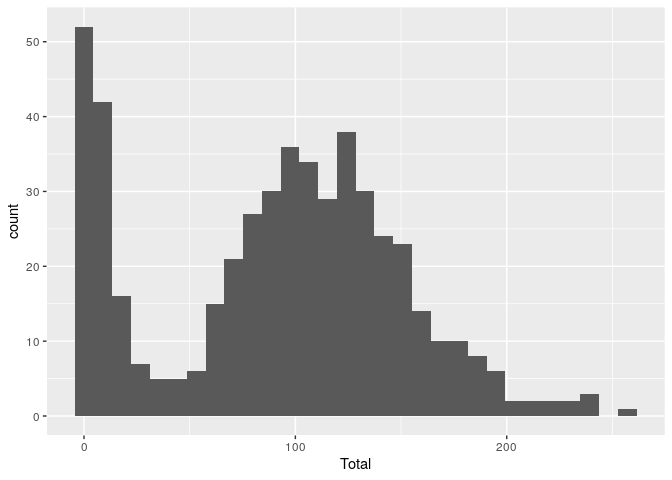
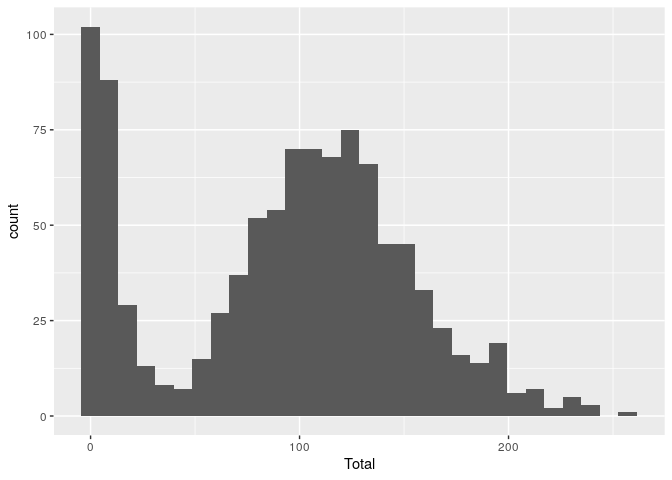
Adding a figure with number of contact tracing events

diff --git a/models/README.md b/models/README.md
@@ -14,7 +14,7 @@ yaml::read_yaml("highschool-params.yaml") |>
     on 'highschool-params.yaml'
 
     List of 19
-     $ Population size             : int 500
+     $ Population size             : int 1000
      $ 1/Rash period               : num 0.25
      $ Contact rate                : num 10
      $ Contact tracing success rate: num 0.9
@@ -31,17 +31,15 @@ yaml::read_yaml("highschool-params.yaml") |>
      $ initial number of exposed   : num 1
      $ Seed                        : int 2231
      $ N days                      : int 60
-     $ Replicates                  : int 500
+     $ Replicates                  : int 1000
      $ Threads                     : int 8
 
 ### Run
 
 The following is the output from the highschool model:
 
-    rm -f highschool-out/* && \
-    ./highschool.o highschool-params.yaml
     Using file: highschool-params.yaml
-    Starting multiple runs (500) using 8 thread(s)
+    Starting multiple runs (1000) using 8 thread(s)
     _________________________________________________________________________
     _________________________________________________________________________
     ||||||||||||||||||||||||||||||||||||||||||||||||||||||||||||||||||||||||| done.
@@ -57,9 +55,9 @@ The following is the output from the highschool model:
     Days (duration)     : 60 (of 60)
     Number of viruses   : 1
     Last run elapsed t  : 0.00s
-    Total elapsed t     : 3.00s (500 runs)
-    Last run speed      : 1.70 million agents x day / second
-    Average run speed   : 9.84 million agents x day / second
+    Total elapsed t     : 6.00s (1000 runs)
+    Last run speed      : 0.99 million agents x day / second
+    Average run speed   : 9.62 million agents x day / second
     Rewiring            : off
 
     Global events:
@@ -79,11 +77,11 @@ The following is the output from the highschool model:
      - Incubation period                   : 5.0000
      - Max days in rash                    : 2.0000
      - N days                              : 60.0000
-     - Population size                     : 500.0000
+     - Population size                     : 1000.0000
      - Prodromal period                    : 4.0000
      - Quarantine days                     : 14.0000
      - Rash period                         : 4.0000
-     - Replicates                          : 500.0000
+     - Replicates                          : 1000.0000
      - Seed                                : 2231.0000
      - Threads                             : 8.0000
      - Transmission rate                   : 0.9500
@@ -95,41 +93,41 @@ The following is the output from the highschool model:
      - initial number of exposed           : 1.0000
 
     Distribution of the population at time 60:
-      - (0) Susceptible             :  999 -> 858
-      - (1) Exposed                 :    1 -> 6
-      - (2) Prodromal               :    0 -> 4
-      - (3) Rash                    :    0 -> 1
-      - (4) Isolated                :    0 -> 3
-      - (5) Quarantined Exposed     :    0 -> 2
-      - (6) Quarantined Susceptible :    0 -> 6
-      - (7) Quarantined Infectious  :    0 -> 3
-      - (8) Recovered               :    0 -> 117
+      - (0) Susceptible             :  999 -> 878
+      - (1) Exposed                 :    1 -> 11
+      - (2) Prodromal               :    0 -> 8
+      - (3) Rash                    :    0 -> 3
+      - (4) Isolated                :    0 -> 5
+      - (5) Quarantined Exposed     :    0 -> 5
+      - (6) Quarantined Susceptible :    0 -> 13
+      - (7) Quarantined Infectious  :    0 -> 4
+      - (8) Recovered               :    0 -> 73
 
     Transition Probabilities:
      - Susceptible              1.00  0.00  0.00  0.00  0.00  0.00  0.00  0.00  0.00
-     - Exposed                  0.00  0.70  0.23  0.00  0.00  0.05  0.00  0.02  0.00
-     - Prodromal                0.00  0.00  0.73  0.24  0.00  0.00  0.00  0.02  0.00
+     - Exposed                  0.00  0.71  0.18  0.00  0.00  0.08  0.00  0.03  0.00
+     - Prodromal                0.00  0.00  0.65  0.29  0.00  0.00  0.00  0.06  0.00
      - Rash                     0.00  0.00  0.00  0.51  0.49  0.00  0.00  0.00  0.00
-     - Isolated                 0.00  0.00  0.00  0.00  0.72  0.00  0.00  0.00  0.28
-     - Quarantined Exposed      0.00  0.00  0.00  0.00  0.00  0.77  0.00  0.23  0.00
-     - Quarantined Susceptible  0.08  0.00  0.00  0.00  0.00  0.00  0.92  0.00  0.00
-     - Quarantined Infectious   0.00  0.00  0.05  0.00  0.20  0.00  0.00  0.75  0.00
+     - Isolated                 0.00  0.00  0.00  0.00  0.69  0.00  0.00  0.00  0.31
+     - Quarantined Exposed      0.00  0.00  0.00  0.00  0.00  0.79  0.00  0.21  0.00
+     - Quarantined Susceptible  0.07  0.00  0.00  0.00  0.00  0.00  0.93  0.00  0.00
+     - Quarantined Infectious   0.00  0.00  0.00  0.00  0.25  0.00  0.00  0.75  0.00
      - Recovered                0.00  0.00  0.00  0.00  0.00  0.00  0.00  0.00  1.00
 
     Contact matrix (first 10 entires) (adjacency matrix)
     Each entry is the day of the contact between i and j, 
     with negative values indicating no contact 
     between the individuals.
-      -1   16   34    9   -1   -1   10   -1   31   53 
-      16   -1   39   -1   41   -1   36   -1   37   -1 
-      34   39   -1   44   -1   39   14   18   11   13 
-       9   -1   44   -1   52   -1   53    6   19   50 
-      -1   41   -1   52   -1   28   20   -1   57   18 
-      -1   -1   39   -1   28   -1   60   45   -1   53 
-      10   36   14   53   20   60   -1   -1   -1   -1 
-      -1   -1   18    6   -1   45   -1   -1   -1   53 
-      31   37   11   19   57   -1   -1   -1   -1   36 
-      53   -1   13   50   18   53   -1   53   36   -1 
+      -1   -1   -1   -1   19   -1   48   44    3   54 
+      -1   -1   -1   -1   43   11   -1   41   48   38 
+      -1   -1   -1   -1   27   -1   -1   -1   -1    1 
+      -1   -1   -1   -1   46   -1   -1   26   20   -1 
+      19   43   27   46   -1   19   37   35   49   33 
+      -1   11   -1   -1   19   -1   30   -1   29   51 
+      48   -1   -1   -1   37   30   -1   14   56   51 
+      44   41   -1   26   35   -1   14   -1   51   41 
+       3   48   -1   20   49   29   56   51   -1   40 
+      54   38    1   -1   33   51   51   41   40   -1 
 
 This model simulates the spread of measles in a highschool. The
 highschool has 1000 students, and the simulation runs for 60 days with
@@ -170,7 +168,6 @@ histories <- lapply(list.files(
       cbind(fn = fn, data.table::fread(fn))
    }) |> rbindlist()
 
-
 # Figuring out the outbreak size
 exposed <- c("Exposed", "Predromal", "Rash", "Isolated", "Quarantined Exposed", "Quarantined Susceptible", "Recovered")
 counts <- histories[(state %in% exposed) & (date == max(date))]
@@ -184,3 +181,64 @@ ggplot(counts, aes(x = Total)) +
     `stat_bin()` using `bins = 30`. Pick better value with `binwidth`.
 
 ![](README_files/figure-commonmark/reading-history-1.png)
+
+Preparing the data for output
+
+``` r
+# Reshape the data to wide
+histories_wide <- dcast(
+    histories, fn + date ~ state, value.var = "counts")
+
+# Generating simulation ids
+histories_wide[, sim_num := as.integer(gsub(".+/([0-9]+)_.+", "\\1", fn))]
+histories_wide[, fn := NULL]
+
+fwrite(histories_wide, "highschool-histories.csv")
+
+# Reading the 'transition.csv' files
+transitions <- lapply(
+    list.files("highschool-out", pattern="transition", full.names = TRUE),
+   \(fn) {
+      cbind(fn = fn, fread(fn))
+    }) |> rbindlist()
+
+# Detected cases
+detected <- transitions[
+    from != "Isolated" & to == "Isolated",
+    .(fn, from, date, counts)
+    ]
+detected <- detected[counts > 0]
+detected[, sim_num := as.integer(gsub(".+/([0-9]+)_.+", "\\1", fn))]
+detected[, fn := NULL]
+
+fwrite(detected, "highschool-detected.csv")
+```
+
+Some statistics about the contact tracing. Each detected case is moved
+to the isolated state and triggers contact tracing. The following plot
+shows the cumulative number of detected cases over time:
+
+``` r
+detected_cum <- detected[, .(Total = sum(counts)), by = .(date, sim_num )] 
+detected_cum[, cumulative := cumsum(Total), by = sim_num]
+detected_cum[, min := quantile(cumulative, 0.025), by = date]
+detected_cum[, mean := mean(cumulative), by = date]
+detected_cum[, max := quantile(cumulative, 0.975), by = date]
+detected_cum |> 
+    ggplot(aes(x = date, y = cumulative)) +
+    geom_line(aes(x=date, y = mean)) +
+    geom_ribbon(
+        aes(ymin = min, ymax = max), fill = "grey", alpha = 0.5
+        ) +
+    # Legend about the ribbon and the mean
+    geom_line(aes(x=date, y = min), linetype = "dashed") +
+    geom_line(aes(x=date, y = max), linetype = "dashed") +
+    labs(
+        title = "Cumulative detected cases",
+        x = "Date",
+        y = "Cumulative detected cases",
+        caption = "The shaded area represents the 95% confidence interval"
+    )
+```
+
+![](README_files/figure-commonmark/contact-tracing-1.png)
